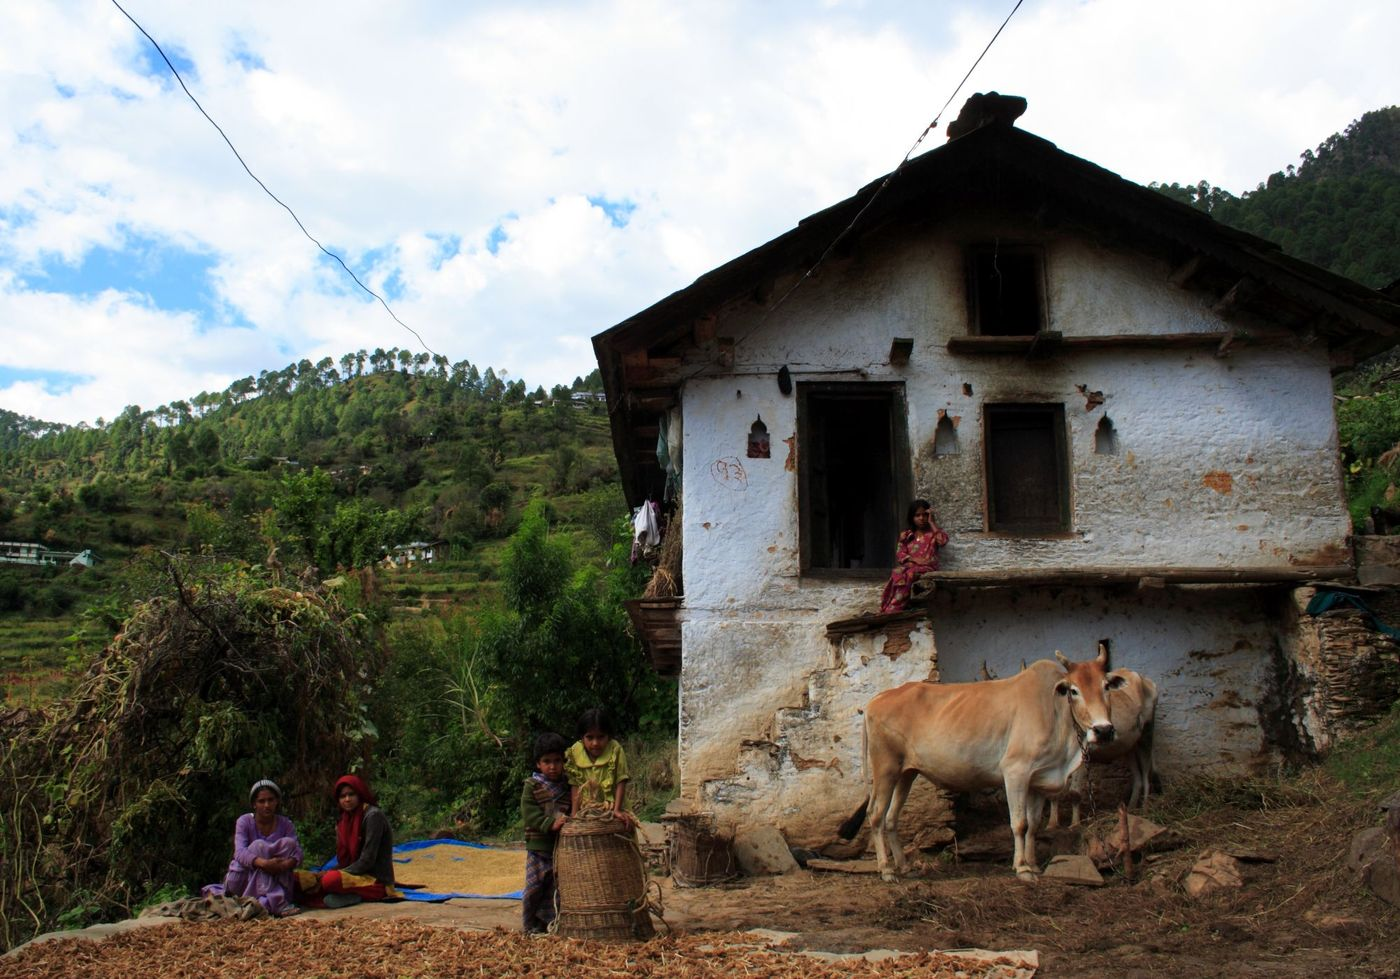
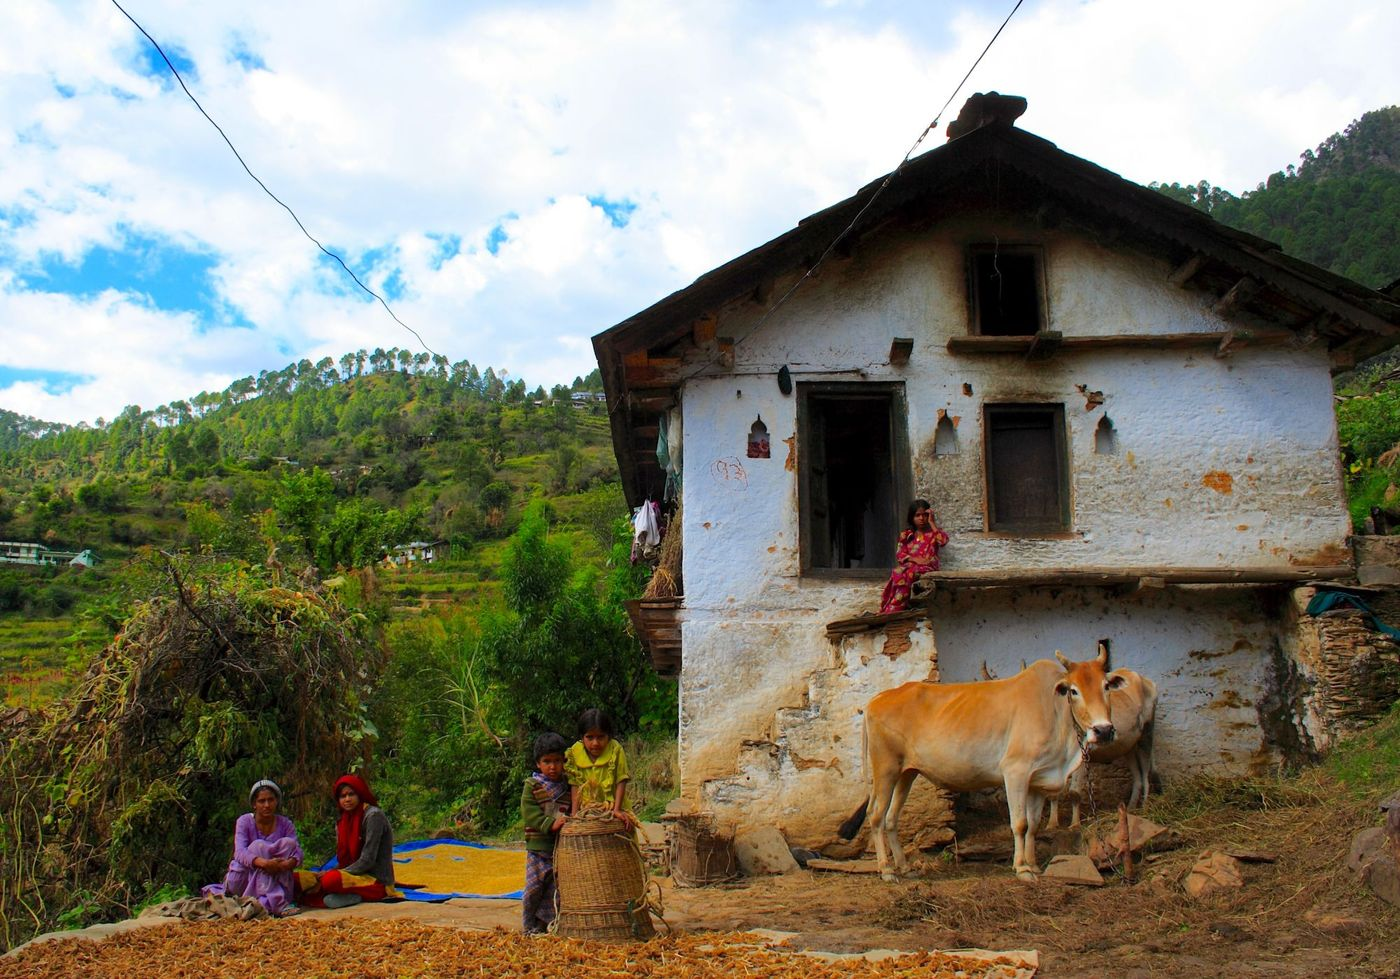
Rename "Harvest of death" to "Harvest of Debt" (#19)
* Rename "Harvest of death" to "Harvest of Debt"

Updates the displayed title in both the article frontmatter and the
ARTICLES manifest; the slug/URL (harvest-of-death) is unchanged.

Also bumps the site.js cache-busting version so the change loads.

Claude-Session: https://claude.ai/code/session_019nejDQSdULjQL7XBVg3Qbe

* Replace three "Vanishing Snow" photos with edited versions

Swaps in the user's edited versions of the village path, terraced
fields, and family/cattle photos, keeping the same filenames so no
markdown or site.js changes are needed.

Claude-Session: https://claude.ai/code/session_019nejDQSdULjQL7XBVg3Qbe

* Update closing line to match "Harvest of Debt" title

The body text still ended with the old phrase ("...a harvest of
death"), echoing the pre-rename title.

Claude-Session: https://claude.ai/code/session_019nejDQSdULjQL7XBVg3Qbe

---------

diff --git a/js/site.js b/js/site.js
@@ -53,7 +53,7 @@ const ARTICLES = [
   { slug: "the-holes-in-our-chappals", title: "The Holes in our Chappals", date: "2007-06-30", categories: ["Environment", "Farm Crisis"], description: "Farmers are killing themselves in Gujarat.", image: "images/guj-farmers-suicides.jpg", featured: true },
   { slug: "cotton-aflame", title: "Cotton Aflame", date: "2007-06-30", categories: ["Farm Crisis"], description: "The cotton harvest is ready. But the state hasn't yet opened most procurement centres. At the few that are functioning, farmers have been lining up for days. The frustration has led to violence in ...", image: "images/firing+on+farmers+1+DSC_1303.JPG", featured: false },
   { slug: "vines-of-debt", title: "Vines of Debt", date: "2007-06-30", categories: ["Farm Crisis"], description: "Onion or grape farmers of Nashik in north Maharashtra have very little to choose to escape debt, and now death.", image: "images/Mah+farm+crisis-+nashik+2.JPG", featured: false },
-  { slug: "harvest-of-death", title: "Harvest of death", date: "2007-06-30", categories: ["Farm Crisis"], description: "Everyday in Vidarbh, there are three suicides reported. Farmers are living only because they are not dying.", image: "images/20070721-Vidarbh-farmers-0026.jpg", featured: false },
+  { slug: "harvest-of-death", title: "Harvest of Debt", date: "2007-06-30", categories: ["Farm Crisis"], description: "Everyday in Vidarbh, there are three suicides reported. Farmers are living only because they are not dying.", image: "images/20070721-Vidarbh-farmers-0026.jpg", featured: false },
   { slug: "bt-rice-trials-uprooted", title: "Bt rice trials uprooted", date: "2007-06-30", categories: ["Environment", "Farm Crisis"], description: "By uprooting Bt rice trials in Tamil Nadu, farm activists and Greenpeace have stirred up the debate on GM food testing. And they have support from unlikely quarters – rice exporters.", image: "images/Bt+rice+trials+2.jpg", featured: false },
   { slug: "back-to-the-basics", title: "Back to the Basics", date: "2007-06-30", categories: ["Environment", "Farm Crisis"], description: "Organic farming is not the only solution to the problems contributing to the farm crisis. However, it is the only one within the farmer's control.", image: "images/2006-07-16+organic+farmers.JPG", featured: false },
   { slug: "weddings-in-the-time-of-suicide", title: "Weddings in the time of suicide", date: "2007-06-30", categories: ["Farm Crisis"], description: "On the mass weddings in Vidarbha, a phenomenon that has grown due to the agrarian crisis.", image: "images/2006-07-01+weddings+in+the+time+of+suicide+1.jpg", featured: false },

diff --git a/index.html b/index.html
@@ -204,7 +204,7 @@
   <span class="lb-counter" id="lightbox-counter"></span>
 </div>
 
-<script src="js/site.js?v=20"></script>
+<script src="js/site.js?v=21"></script>
 
 </body>
 </html>

diff --git a/content/articles/harvest-of-death.md b/content/articles/harvest-of-death.md
@@ -1,5 +1,5 @@
 ---
-title: "Harvest of death"
+title: "Harvest of Debt"
 date: "2007-06-30"
 categories: ["Farm Crisis"]
 publication: "Frontline"
@@ -20,7 +20,7 @@ In the last year, Chandrakant’s sense of humour had dimmed as he sank deeper i
 
 Chandrakant had a bank loan of Rs 1.05 lakh. He had pawned jewellery worth Rs 30,000. His family has no idea how much he owed moneylenders. He couldn’t pay back the debts because farming was no longer profitable. “He spent Rs 60-70,000 on the farm. He got back only Rs 40,000 by selling the cotton crop, of which he gave Rs 15,000 to the bank. The jowar crop failed. There was no grain in the house. Everyone in our house was ill with the chicken guinea disease. He had no money to sow the next crop,” said Prahlad. “He had sold his buffalos, his motorcycle, his thresher machines. Finally, he finished himself.”
 
-There have been 680 suicides up to August 2006 – more than three per day – in Vidarbh, the north-eastern and most neglected region of Maharashtra. The rich, black soil is ideal for cotton – once called ‘white gold’. For a decade, Vidarbh is experiencing a desperate farm crisis. Since 2001, there have been 2,279 suicides. Cotton is no longer profitable. In 1970, one quintal of cotton had the same value as 12 grams of gold. Now, it is a harvest of death.
+There have been 680 suicides up to August 2006 – more than three per day – in Vidarbh, the north-eastern and most neglected region of Maharashtra. The rich, black soil is ideal for cotton – once called ‘white gold’. For a decade, Vidarbh is experiencing a desperate farm crisis. Since 2001, there have been 2,279 suicides. Cotton is no longer profitable. In 1970, one quintal of cotton had the same value as 12 grams of gold. Now, it is a harvest of debt.
 
 <a href="http://bp1.blogger.com/_gMPVUAVwmpI/RoY-8pwXsrI/AAAAAAAAAFQ/L8D-qqba7Lk/s1600-h/Mah+farm+crisis-+vidarbh+map.jpg"><img src="images/Mah+farm+crisis-+vidarbh+map.jpg" style="width:50%; height:auto;"></a>
 
